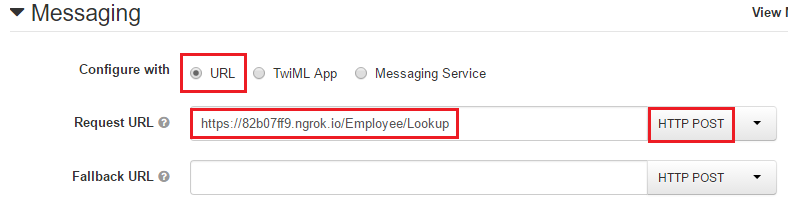
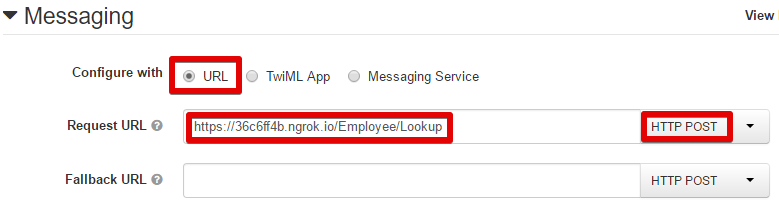
Updated README

diff --git a/README.md b/README.md
@@ -1,58 +1,76 @@
 # SMS/MMS Employee Directory on ASP.NET MVC
 
-[![Build status](https://ci.appveyor.com/api/projects/status/0iieup1dq9490msy?svg=true)](https://ci.appveyor.com/project/TwilioDevEd/server-notifications-csharp) *TODO: CI*
+[//]: # (TODO: Change these from dprothero to TwilioDevEd)
+
+[![Build status](https://ci.appveyor.com/api/projects/status/github/dprothero/employee-directory-csharp?svg=true)](https://ci.appveyor.com/project/dprothero/employee-directory-csharp)
 
 Use Twilio to accept SMS messages and turn them into queries against an SQL database. This example functions as an Employee Directory where a mobile phone user can send a text message with a partial string of the person's name and it will return their picture and contact information (Email address and Phone number).
 
-[Read the full tutorial here](https://www.twilio.com/docs/tutorials/walkthrough/server-notifications/csharp/mvc)! *TODO: Tutorial coming soon*
+[//]: # (TODO: Change this to twilio.com)
+
+[Read the full tutorial here](http://www.prothero.com/employee-directory-csharp)
 
 ## Trying it Out
 
 ### Prerequisites
 
-1. A Twilio account with a provisioned phone number. (Get a [free account](https://www.twilio.com/login?utm_campaign=tutorials&utm_medium=readme) here.)
+1. A Twilio account with a provisioned phone number. (Get a [free account](https://www.twilio.com/try-twilio?utm_campaign=tutorials&utm_medium=readme) here.)
 2. Visual Studio 2015 or 2013. (Download the [free Community edition](https://www.visualstudio.com/en-us/downloads/download-visual-studio-vs.aspx) here.)
    - Visual Studio *Code* will not work.
 
-### Clone and Test
+### Download and Run the Application
 
 1. First clone this repository which you can do from [within Visual Studio](https://visualstudio.github.com/), using [GitHub Desktop](https://desktop.github.com/), or from the command line:
    ```
    git clone https://github.com/TwilioDevEd/employee-directory-csharp.git
    ```
 
-2. Open the `EmployeeDirectory.sln` using Visual Studio and run it.
+2. Open the `EmployeeDirectory.sln` using Visual Studio and run it. This will restore all the required NuGet packages, build the solution, and launch the default action (`/Home/Index`) in your web browser.
 
-3. The first time the ASP.NET MVC application loads, Entity Framework will create a new SQLite database in the App_Data folder named `Employees.sqlite` seeded with data from the `seed-data.json` file. (Data provided by Marvel. &copy; 2016 MARVEL)
+3. The first time the ASP.NET MVC application loads, Entity Framework will create a new SQLite database in the `App_Data` folder named `Employees.sqlite` seeded with data from the `seed-data.json` file. (Data provided by Marvel. &copy; 2016 MARVEL)
 
-4. The `HomeController`'s `Index` action will load by default. It simply queries the database for the first employee to ensure everything is setup.
+4. The `HomeController`'s `Index` action will load by default (`/Home/Index` being the default route). It simply queries the database for the first employee to ensure everything is set up.
 
-5. The `Home/Index.cshtml` view displays the first employee found as well as providing a search box to test the employee directory search by name functionality. Type in a name, or partial name, and click the Go button. The Twilio Markup XML response (TwiML) will be returned. (Hint: The database has been seeded with Marvel Universe "employees".)
+5. The `Home/Index.cshtml` view associated with the `HomeController` displays the first employee found as well as providing a search box to test the employee directory search by name functionality...
+   ![test page](docs/test.png)
+   
+   Type in a name, or partial name, and click the Go button. The Twilio Markup XML response (TwiML) will be returned. (Hint: The database has been seeded with Marvel Universe "employees".)
 
-6. At this point you have the application working. You will notice that the XML response is coming from the `/Employee/Lookup` route. You will need this in the next section to setup your Twilio web hook.
+6. At this point you have the application working. You will notice that the XML response is coming from the `/Employee/Lookup` route. You will need this in the next section to set up your Twilio webhook.
+   ![xml result](docs/xml.png)
 
-### Connect to Twilio
+### Receiving SMS Messages in your local development environment
 
-1. You need to connect Twilio to your new `/Employee/Lookup` service. To do this, you need to make your local IIS Express development web server accessible to Twilio. The easiest way to do this is to use [ngrok](https://www.twilio.com/blog/2015/09/6-awesome-reasons-to-use-ngrok-when-testing-webhooks.html?utm_campaign=tutorials&utm_medium=readme). Once you've downloaded and unzipped ngrok, create your tunnel like so:
+1. You need to connect Twilio to your new `/Employee/Lookup` service. To do this, you need to make your local IIS Express development web server accessible to Twilio. The easiest way to do this is to use [ngrok](https://www.twilio.com/blog/2015/09/6-awesome-reasons-to-use-ngrok-when-testing-webhooks.html?utm_campaign=tutorials&utm_medium=readme). Once you've [downloaded](https://ngrok.com/download) and unzipped ngrok, create your tunnel like so:
    ```
    ngrok http 29103 -host-header="localhost:29103"
    ```
+   Port 29103 is the port assigned to the web project by Visual Studio. You do not need to change it. The host-header parameter is required for IIS Express to allow traffic to your local development site.
 
-2. Test the URL `https://*your-ngrog-subdomain*.ngrok.io/` to make sure the tunnel is working correctly. (Be sure your solution in Visual Studio is running.)
+2. Test the URL `https://*your-ngrok-subdomain*.ngrok.io/` to make sure the tunnel is working correctly. (Be sure your solution in Visual Studio is running.)
    ![ngrok working](docs/ngrok.png)
 
 3. [Login](https://www.twilio.com/login?utm_campaign=tutorials&utm_medium=readme) to your Twilio account (or [create one](https://www.twilio.com/try-twilio?utm_campaign=tutorials&utm_medium=readme) if you don't yet have one) and select (or create) a [phone number](https://www.twilio.com/user/account/phone-numbers/incoming?utm_campaign=tutorials&utm_medium=readme).
 
-4. Scroll down to the **Messaging** section and set the **Request URL** to: `https://*your-ngrog-subdomain*.ngrok.io/Employee/Lookup` and Save.
-   ![Web hook setup](docs/webhook.png)
+4. Scroll down to the **Messaging** section and set **Confure with** to *URL*, the **Request URL** to: `https://*your-ngrok-subdomain*.ngrok.io/Employee/Lookup`, select **HTTP POST** and then click Save.
+   ![Webhook setup](docs/webhook.png)
 
-5. Send a text to your phone number. Twilio will receive your message and forward it to the web hook you configured in the previous step. Your web hook returns the XML response, which Twilio will in turn send back the result message to your phone. Employee directory with no apps or internet access required.
+5. Send a text to your phone number. Twilio will receive your message and forward it to the webhook you configured in the previous step. Your webhook returns the XML response, which Twilio will in turn send back as an MMS message to your phone. You now have an employee directory with no apps or internet access required.
 
-### Getting Ready for Production
+## Getting Ready for Production
 
-1. Out of the box, this example uses a SQLite database. Depending on your use case, this may be fine, but many will want to move up to SQL Server. To do this, simply edit the `DefaultConnection` connection string to point to a SQL Server. Entity Framework will automatically create the database and schema, along with seeding the database with the Marvel sample data.
+1. Out of the box, this example uses a SQLite database. Depending on your use case, this may be fine, but many will want to move up to SQL Server. To do this, simply edit the `DefaultConnection` connection string in the `Web.config` file to point to a SQL Server. Entity Framework will automatically create the database and schema, along with seeding the database with the Marvel sample data.
+   ```xml
+   <connectionStrings>
+       <!-- Default connection uses SQLite -->
+       <add name="DefaultConnection" connectionString="data source=|DataDirectory|\Employees.sqlite" providerName="System.Data.SQLite" />
+       <!-- Rename the following to DefaultConnection (and rename the above to something else) to use SQL Server -->
+       <add name="DefaultConnectionX" connectionString="Server=YourSqlServeName;Database=Employees;User ID=yourUserName;Password=yourPassword" providerName="System.Data.SqlClient" />
+   </connectionStrings>
+   ```
+   Or, even better, if you are using Azure Web Apps, configure your connection string in the Azure Portal.
 
-2. You will likely want to change the App_Data/seed-data.json file, or simply delete it. If the file does not exist, the application will simply initialize an empty database.
+2. You will likely want to change the `App_Data/seed-data.json` file, or simply delete it. If the file does not exist, the application will simply initialize an empty database.
 
 3. Create an ETL job or other background service that copies the employee contact information from your HR or other system into the SQL database for this application.
 
